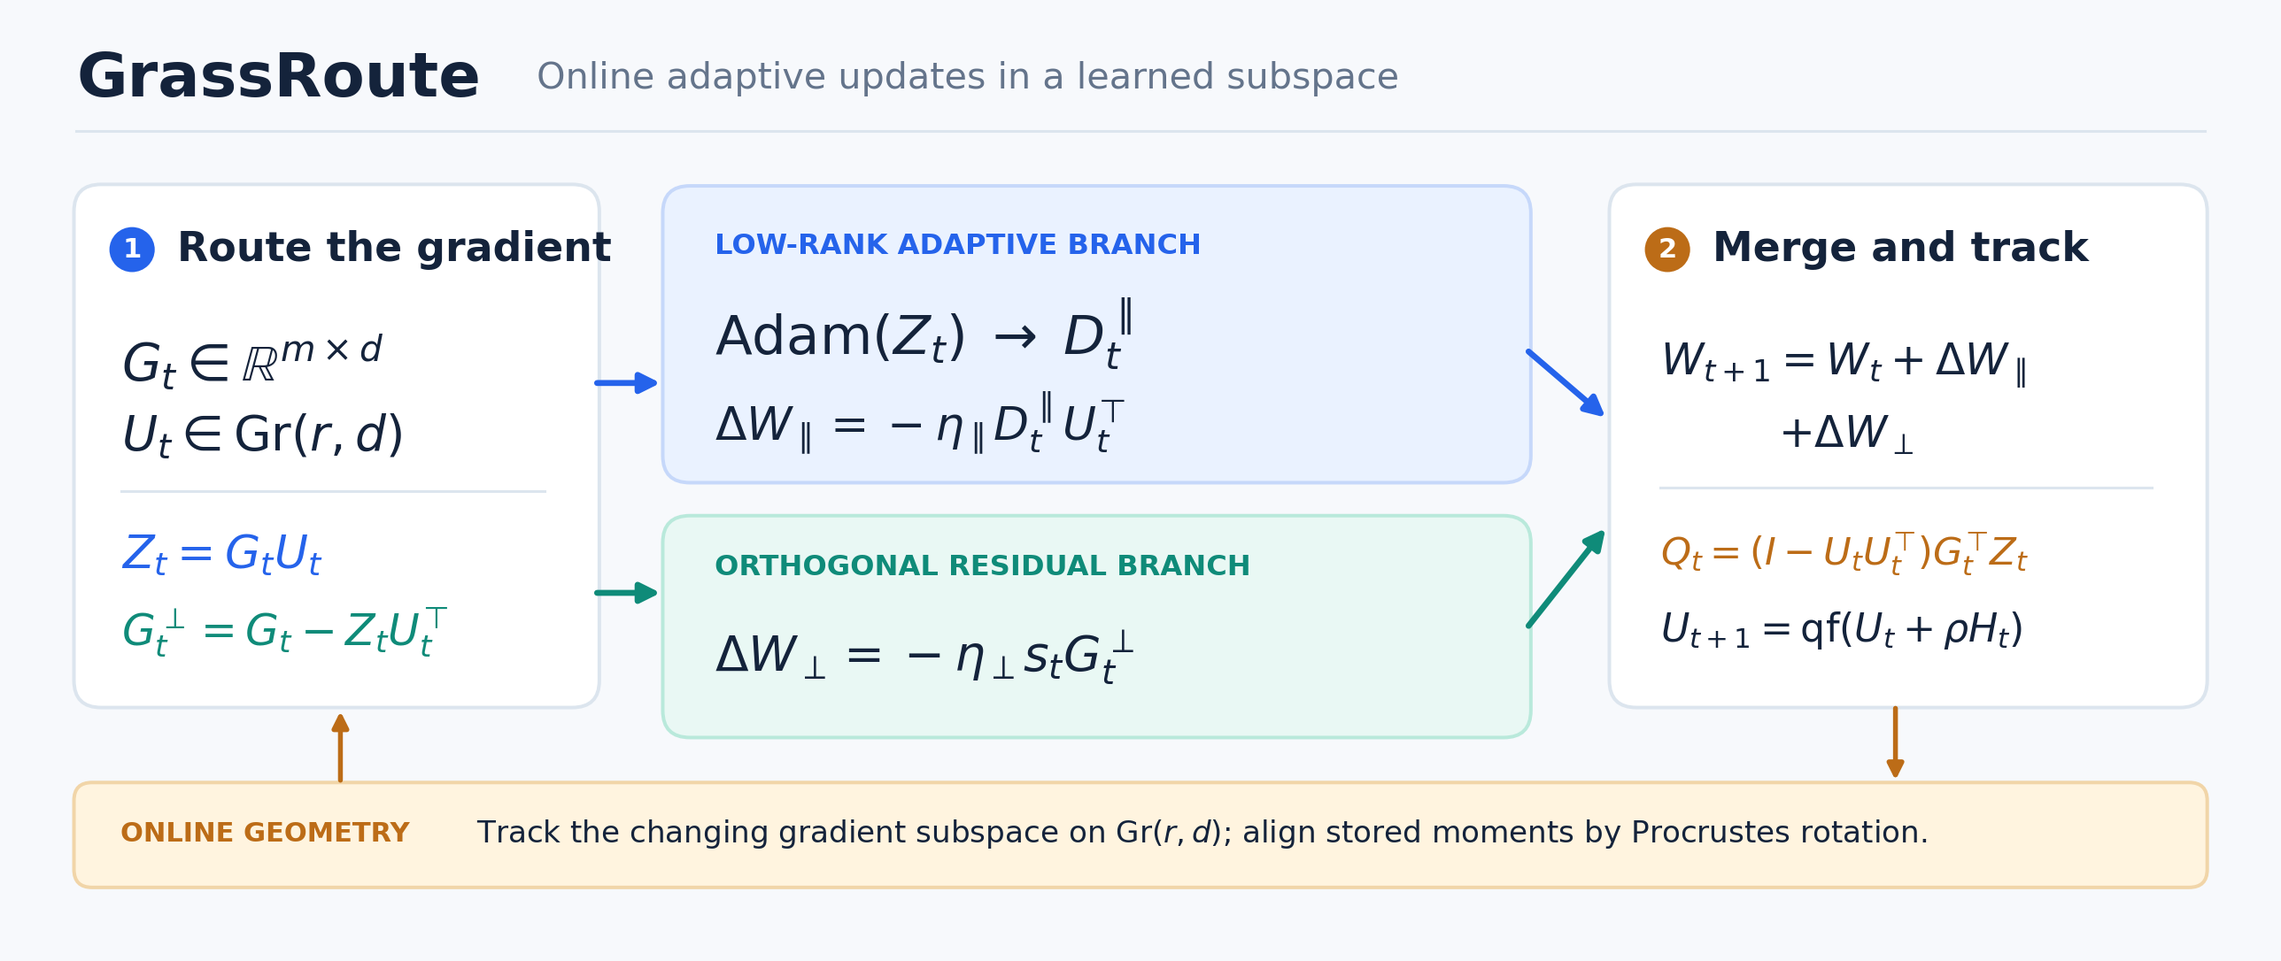
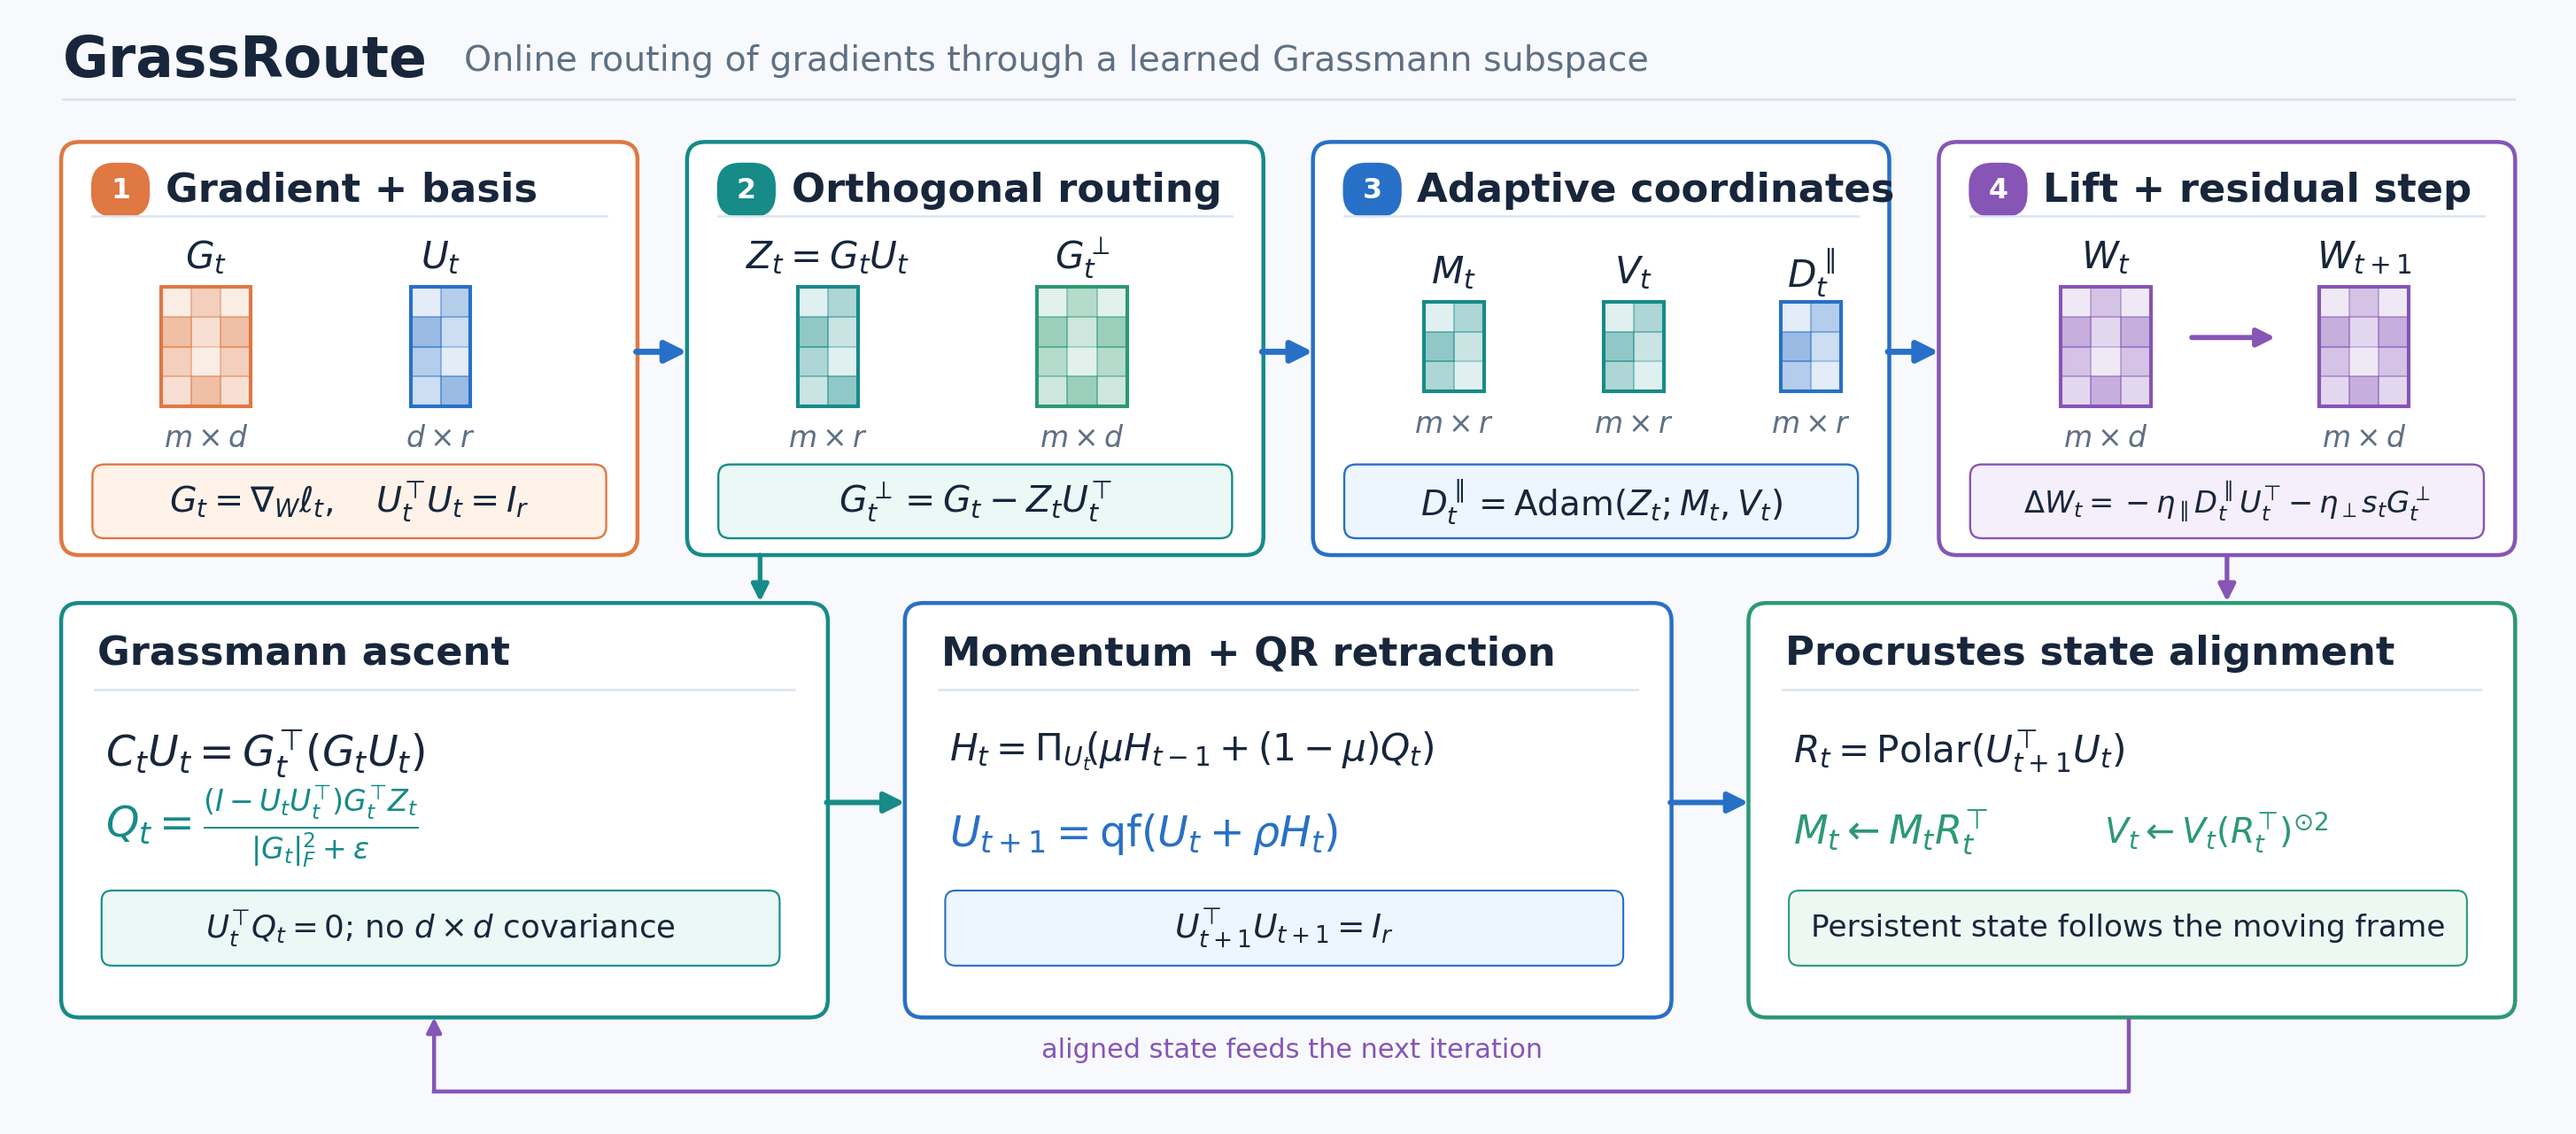
Polish centered badges and method figure

Changed region(s): [[0.0, 0.0304, 0.9938, 0.9724], [0.2484, 0.6077, 0.3106, 0.6381]]

diff --git a/assets/draw_intuition.py b/assets/draw_intuition.py
@@ -1,106 +1,173 @@
-"""Draw the GrassRoute README intuition graphic as a high-resolution PNG."""
+"""Draw the GrassRoute README method figure as a high-resolution PNG."""
+
 from pathlib import Path
 
 import matplotlib
+
 matplotlib.use("Agg")
 import matplotlib.pyplot as plt
-from matplotlib.patches import FancyArrowPatch, FancyBboxPatch, Circle
+from matplotlib.patches import FancyArrowPatch, FancyBboxPatch, Rectangle
 
 
-NAVY = "#14233b"
-MUTED = "#64748b"
-BLUE = "#2563eb"
-BLUE_BG = "#eaf2ff"
-TEAL = "#0f8b79"
-TEAL_BG = "#e9f8f4"
-AMBER = "#bc6c17"
-AMBER_BG = "#fff4df"
-LINE = "#dce5ee"
+INK = "#17263b"
+MUTED = "#5e7084"
+LINE = "#dce5ef"
+BG = "#f7f9fc"
+BLUE = "#2870c7"
+BLUE_BG = "#edf5ff"
+ORANGE = "#df7842"
+ORANGE_BG = "#fff2e9"
+TEAL = "#168b88"
+TEAL_BG = "#eaf8f6"
+GREEN = "#2c9972"
+GREEN_BG = "#edf8f2"
+PURPLE = "#8655b6"
+PURPLE_BG = "#f5effc"
 
 
-def card(ax, x, y, w, h, face="white", edge=LINE, radius=.18):
-    patch = FancyBboxPatch((x, y), w, h,
-                           boxstyle=f"round,pad=0.015,rounding_size={radius}",
-                           facecolor=face, edgecolor=edge, linewidth=1.3)
-    ax.add_patch(patch)
-    return patch
+def box(ax, x, y, w, h, border, fill="white", radius=.14, lw=1.7):
+    shape = FancyBboxPatch(
+        (x, y), w, h,
+        boxstyle=f"round,pad=0.01,rounding_size={radius}",
+        facecolor=fill, edgecolor=border, linewidth=lw,
+    )
+    ax.add_patch(shape)
 
 
-def arrow(ax, start, end, color=BLUE, width=2.2, size=15, curve=0):
-    ax.add_patch(FancyArrowPatch(start, end, arrowstyle="-|>",
-                                 mutation_scale=size, linewidth=width,
-                                 color=color, connectionstyle=f"arc3,rad={curve}",
-                                 shrinkA=0, shrinkB=0))
+def text(ax, x, y, value, size=16, color=INK, weight="normal", ha="left"):
+    ax.text(x, y, value, fontsize=size, color=color, fontweight=weight,
+            ha=ha, va="center")
 
 
-def label(ax, x, y, text, size=13, color=NAVY, weight="normal", **kwargs):
-    ax.text(x, y, text, fontsize=size, color=color, fontweight=weight,
-            va="center", **kwargs)
+def arrow(ax, a, b, color=BLUE, width=2.3, scale=18):
+    ax.add_patch(FancyArrowPatch(a, b, arrowstyle="-|>", mutation_scale=scale,
+                                 linewidth=width, color=color, shrinkA=0, shrinkB=0))
 
 
-def main():
-    out = Path(__file__).with_name("grassroute_intuition.png")
+def matrix(ax, x, y, rows, cols, color, label, dims, cell=.23):
+    width, height = cols * cell, rows * cell
+    left, bottom = x - width / 2, y - height / 2
+    text(ax, x, bottom + height + .23, label, 16, ha="center")
+    for i in range(rows):
+        for j in range(cols):
+            alpha = (.13, .23, .35, .47)[(3 * i + 2 * j) % 4]
+            ax.add_patch(Rectangle((left + j * cell, bottom + (rows - 1 - i) * cell),
+                                   cell, cell, facecolor=color, edgecolor=color,
+                                   linewidth=.7, alpha=alpha))
+    ax.add_patch(Rectangle((left, bottom), width, height, facecolor="none",
+                           edgecolor=color, linewidth=1.55))
+    text(ax, x, bottom - .25, dims, 12.5, MUTED, ha="center")
+
+
+def header(ax, x, y, w, number, title, color):
+    box(ax, x + .23, y + .23, .43, .40, color, color, radius=.18, lw=0)
+    text(ax, x + .445, y + .43, str(number), 12, "white", "bold", "center")
+    text(ax, x + .79, y + .43, title, 17, INK, "bold")
+    ax.plot([x + .23, x + w - .23], [y + .23, y + .23], color=LINE, lw=1)
+
+
+def draw():
+    output = Path(__file__).with_name("grassroute_intuition.png")
     with plt.rc_context({"font.family": "DejaVu Sans", "mathtext.fontset": "dejavusans",
-                         "savefig.facecolor": "#f7f9fc"}):
-        fig, ax = plt.subplots(figsize=(14.8, 6.1), dpi=220)
-        fig.patch.set_facecolor("#f7f9fc")
-        ax.set_facecolor("#f7f9fc")
-        ax.set_xlim(0, 14.8)
-        ax.set_ylim(0, 6.1)
+                         "savefig.facecolor": BG}):
+        fig, ax = plt.subplots(figsize=(19.5, 8.5), dpi=190)
+        fig.patch.set_facecolor(BG)
+        ax.set_facecolor(BG)
+        ax.set_xlim(0, 19.5)
+        ax.set_ylim(0, 8.5)
         ax.axis("off")
 
-        label(ax, .35, 5.73, "GrassRoute", 23, NAVY, "bold")
-        label(ax, 3.40, 5.73, "Online adaptive updates in a learned subspace", 13.5, MUTED)
-        ax.plot([.35, 14.45], [5.38, 5.38], color=LINE, linewidth=1)
+        text(ax, .35, 8.16, "GrassRoute", 24, INK, "bold")
+        text(ax, 3.43, 8.16, "Online routing of gradients through a learned Grassmann subspace",
+             15, MUTED)
+        ax.plot([.35, 19.15], [7.86, 7.86], color=LINE, lw=1.1)
 
-        # Input and decomposition.
-        card(ax, .35, 1.55, 3.45, 3.46)
-        ax.add_patch(Circle((.72, 4.59), .15, facecolor=BLUE, edgecolor="none"))
-        label(ax, .72, 4.59, "1", 10, "white", "bold", ha="center")
-        label(ax, 1.02, 4.59, "Route the gradient", 15, NAVY, "bold")
-        label(ax, .65, 3.84, r"$G_t \in \mathbb{R}^{m\times d}$", 19)
-        label(ax, .65, 3.34, r"$U_t \in \mathrm{Gr}(r,d)$", 18)
-        ax.plot([.65, 3.45], [2.98, 2.98], color=LINE, linewidth=1)
-        label(ax, .65, 2.55, r"$Z_t = G_tU_t$", 17, BLUE, "bold")
-        label(ax, .65, 2.04, r"$G_t^{\perp}=G_t-Z_tU_t^{\top}$", 16, TEAL)
+        top_y, top_h, top_w = 4.35, 3.17, 4.40
+        xs = [.35, 5.15, 9.95, 14.75]
+        for k, (x, color, title) in enumerate(zip(
+            xs, [ORANGE, TEAL, BLUE, PURPLE],
+            ["Gradient + basis", "Orthogonal routing",
+             "Adaptive coordinates", "Lift + residual step"],
+        ), 1):
+            box(ax, x, top_y, top_w, top_h, color)
+            header(ax, x, top_y + top_h - .79, top_w, k, title, color)
+        for x in [4.75, 9.55, 14.35]:
+            arrow(ax, (x, 5.91), (x + .39, 5.91), BLUE, 2.6, 19)
 
-        # Two paths and their update rules.
-        arrow(ax, (3.8, 3.7), (4.22, 3.7), BLUE)
-        arrow(ax, (3.8, 2.3), (4.22, 2.3), TEAL)
-        card(ax, 4.25, 3.05, 5.72, 1.95, BLUE_BG, "#c6d8fa")
-        label(ax, 4.58, 4.61, "LOW-RANK ADAPTIVE BRANCH", 10.5, BLUE, "bold")
-        label(ax, 4.58, 4.03, r"$\mathrm{Adam}(Z_t)\;\rightarrow\; D_t^{\parallel}$", 20)
-        label(ax, 4.58, 3.43, r"$\Delta W_{\parallel}=-\eta_{\parallel}D_t^{\parallel}U_t^{\top}$", 17)
+        matrix(ax, 1.45, 5.95, 4, 3, ORANGE, r"$G_t$", r"$m\times d$")
+        matrix(ax, 3.25, 5.95, 4, 2, BLUE, r"$U_t$", r"$d\times r$")
+        box(ax, .59, 4.48, 3.92, .55, ORANGE, ORANGE_BG, radius=.09, lw=.9)
+        text(ax, 2.55, 4.755, r"$G_t=\nabla_W\ell_t,\quad U_t^{\top}U_t=I_r$",
+             15, INK, ha="center")
 
-        card(ax, 4.25, 1.35, 5.72, 1.45, TEAL_BG, "#b9e9db")
-        label(ax, 4.58, 2.47, "ORTHOGONAL RESIDUAL BRANCH", 10.5, TEAL, "bold")
-        label(ax, 4.58, 1.87, r"$\Delta W_{\perp}=-\eta_{\perp}s_tG_t^{\perp}$", 18)
+        matrix(ax, 6.22, 5.95, 4, 2, TEAL, r"$Z_t=G_tU_t$", r"$m\times r$")
+        matrix(ax, 8.17, 5.95, 4, 3, GREEN, r"$G_t^{\perp}$", r"$m\times d$")
+        box(ax, 5.39, 4.48, 3.92, .55, TEAL, TEAL_BG, radius=.09, lw=.9)
+        text(ax, 7.35, 4.755, r"$G_t^{\perp}=G_t-Z_tU_t^{\top}$",
+             15.5, INK, ha="center")
 
-        # Merge, weight update, and feedback.
-        arrow(ax, (9.97, 3.91), (10.48, 3.47), BLUE)
-        arrow(ax, (9.97, 2.08), (10.48, 2.73), TEAL)
-        card(ax, 10.52, 1.55, 3.93, 3.46)
-        ax.add_patch(Circle((10.89, 4.59), .15, facecolor=AMBER, edgecolor="none"))
-        label(ax, 10.89, 4.59, "2", 10, "white", "bold", ha="center")
-        label(ax, 11.19, 4.59, "Merge and track", 15, NAVY, "bold")
-        label(ax, 10.84, 3.82, r"$W_{t+1}=W_t+\Delta W_{\parallel}$", 16)
-        label(ax, 11.62, 3.35, r"$+\Delta W_{\perp}$", 16)
-        ax.plot([10.84, 14.1], [3.0, 3.0], color=LINE, linewidth=1)
-        label(ax, 10.84, 2.56, r"$Q_t=(I-U_tU_t^{\top})G_t^{\top}Z_t$", 14.2, AMBER)
-        label(ax, 10.84, 2.05, r"$U_{t+1}=\mathrm{qf}(U_t+\rho H_t)$", 14.5)
+        matrix(ax, 11.02, 5.95, 3, 2, TEAL, r"$M_t$", r"$m\times r$")
+        matrix(ax, 12.40, 5.95, 3, 2, TEAL, r"$V_t$", r"$m\times r$")
+        matrix(ax, 13.76, 5.95, 3, 2, BLUE, r"$D_t^{\parallel}$", r"$m\times r$")
+        box(ax, 10.19, 4.48, 3.92, .55, BLUE, BLUE_BG, radius=.09, lw=.9)
+        text(ax, 12.15, 4.755, r"$D_t^{\parallel}=\mathrm{Adam}(Z_t;M_t,V_t)$",
+             14.7, INK, ha="center")
 
-        card(ax, .35, .35, 14.1, .67, AMBER_BG, "#f1d5a8", radius=.12)
-        label(ax, .64, .69, "ONLINE GEOMETRY", 10, AMBER, "bold")
-        label(ax, 3.0, .69,
-              r"Track the changing gradient subspace on $\mathrm{Gr}(r,d)$; align stored moments by Procrustes rotation.",
-              11.2, NAVY)
-        arrow(ax, (12.4, 1.53), (12.4, 1.05), AMBER, 1.8, 12)
-        arrow(ax, (2.1, 1.05), (2.1, 1.51), AMBER, 1.8, 12)
+        matrix(ax, 16.02, 5.95, 4, 3, PURPLE, r"$W_t$", r"$m\times d$")
+        matrix(ax, 18.00, 5.95, 4, 3, PURPLE, r"$W_{t+1}$", r"$m\times d$")
+        arrow(ax, (16.68, 6.02), (17.32, 6.02), PURPLE, 2.2, 16)
+        box(ax, 14.99, 4.48, 3.92, .55, PURPLE, PURPLE_BG, radius=.09, lw=.9)
+        text(ax, 16.95, 4.755,
+             r"$\Delta W_t=-\eta_{\parallel}D_t^{\parallel}U_t^{\top}-\eta_{\perp}s_tG_t^{\perp}$",
+             12.8, INK, ha="center")
 
-        fig.savefig(out, dpi=220, bbox_inches="tight", pad_inches=.12)
+        for x, color, title in [
+            (.35, TEAL, "Grassmann ascent"),
+            (6.82, BLUE, "Momentum + QR retraction"),
+            (13.29, GREEN, "Procrustes state alignment"),
+        ]:
+            box(ax, x, .78, 5.86, 3.18, color)
+            text(ax, x + .27, 3.58, title, 17, INK, "bold")
+            ax.plot([x + .25, x + 5.61], [3.30, 3.30], color=LINE, lw=1)
+
+        text(ax, .68, 2.81, r"$C_tU_t=G_t^{\top}(G_tU_t)$", 18)
+        text(ax, .68, 2.25,
+             r"$Q_t=\frac{(I-U_tU_t^{\top})G_t^{\top}Z_t}{\|G_t\|_F^2+\varepsilon}$",
+             18, TEAL)
+        box(ax, .66, 1.18, 5.18, .56, TEAL, TEAL_BG, radius=.08, lw=.8)
+        text(ax, 3.25, 1.46, r"$U_t^{\top}Q_t=0$; no $d\times d$ covariance",
+             13.5, INK, ha="center")
+
+        text(ax, 7.15, 2.83,
+             r"$H_t=\Pi_{U_t}\!\left(\mu H_{t-1}+(1-\mu)Q_t\right)$", 16)
+        text(ax, 7.15, 2.19, r"$U_{t+1}=\mathrm{qf}(U_t+\rho H_t)$",
+             18, BLUE)
+        box(ax, 7.13, 1.18, 5.18, .56, BLUE, BLUE_BG, radius=.08, lw=.8)
+        text(ax, 9.72, 1.46, r"$U_{t+1}^{\top}U_{t+1}=I_r$", 14.3, INK, ha="center")
+
+        text(ax, 13.62, 2.83,
+             r"$R_t=\mathrm{Polar}(U_{t+1}^{\top}U_t)$", 16)
+        text(ax, 13.62, 2.20, r"$M_t\leftarrow M_tR_t^{\top}$", 17, GREEN)
+        text(ax, 16.01, 2.20, r"$V_t\leftarrow V_t(R_t^{\top})^{\odot 2}$",
+             15, GREEN)
+        box(ax, 13.60, 1.18, 5.18, .56, GREEN, GREEN_BG, radius=.08, lw=.8)
+        text(ax, 16.19, 1.46, "Persistent state follows the moving frame",
+             13, INK, ha="center")
+
+        arrow(ax, (6.21, 2.43), (6.81, 2.43), TEAL, 2.3, 18)
+        arrow(ax, (12.68, 2.43), (13.28, 2.43), BLUE, 2.3, 18)
+        arrow(ax, (5.70, 4.34), (5.70, 3.98), TEAL, 2.0, 15)
+        arrow(ax, (16.95, 4.33), (16.95, 3.98), PURPLE, 2.0, 15)
+
+        ax.plot([16.2, 16.2, 3.2], [.75, .20, .20], color=PURPLE, lw=1.7)
+        arrow(ax, (3.2, .20), (3.2, .77), PURPLE, 1.7, 13)
+        text(ax, 9.78, .52, "aligned state feeds the next iteration",
+             11.5, PURPLE, ha="center")
+
+        fig.savefig(output, dpi=190, bbox_inches="tight", pad_inches=.10)
         plt.close(fig)
-    print(out)
+    print(output)
 
 
 if __name__ == "__main__":
-    main()
+    draw()

diff --git a/README.md b/README.md
@@ -1,20 +1,17 @@
-<div align="center">
+<h1 align="center">GrassRoute</h1>
 
-# GrassRoute
-
-### Online Gradient Routing on the Grassmann Manifold
-
-Research code for memory-efficient, geometry-aware optimization.
-
-[![Paper](https://img.shields.io/badge/Paper-PDF-264c77?style=for-the-badge)](paper/main.pdf)
-[![Method](https://img.shields.io/badge/Method-Overview-0f8b79?style=for-the-badge)](#method-at-a-glance)
-[![Experiments](https://img.shields.io/badge/Experiments-Reproduce-bc6c17?style=for-the-badge)](#reproducing-experiments)
-[![Code](https://img.shields.io/badge/Python-Source-374151?style=for-the-badge)](#repository-map)
-
-</div>
+<p align="center"><strong>Online Gradient Routing on the Grassmann Manifold</strong><br />
+Research code for memory-efficient, geometry-aware optimization.</p>
 
 <p align="center">
-  <img src="assets/grassroute_intuition.png" alt="GrassRoute routes the current gradient into a low-rank adaptive branch and a stateless orthogonal residual branch, then tracks the subspace on the Grassmann manifold." width="100%" />
+  <a href="paper/main.pdf"><img alt="Paper PDF" src="https://img.shields.io/badge/Paper-PDF-b31b1b.svg" /></a>
+  <a href="#method-at-a-glance"><img alt="PyTorch optimizer" src="https://img.shields.io/badge/PyTorch-Optimizer-ee4c2c.svg" /></a>
+  <a href="#reproducing-experiments"><img alt="Experiment code" src="https://img.shields.io/badge/Experiments-Code-168b88.svg" /></a>
+  <a href="assets/grassroute_intuition.png"><img alt="Method figure PNG" src="https://img.shields.io/badge/Figure-PNG-8655b6.svg" /></a>
+</p>
+
+<p align="center">
+  <img src="assets/grassroute_intuition.png" alt="Detailed GrassRoute update schematic: orthogonal gradient routing, low-rank adaptive coordinates, residual weight update, Grassmann tracking, and Procrustes state alignment." width="96%" />
 </p>
 
 <div align="center"><sub>The diagram is a PNG; its drawing code is in <a href="assets/draw_intuition.py">assets/draw_intuition.py</a>.</sub></div>
